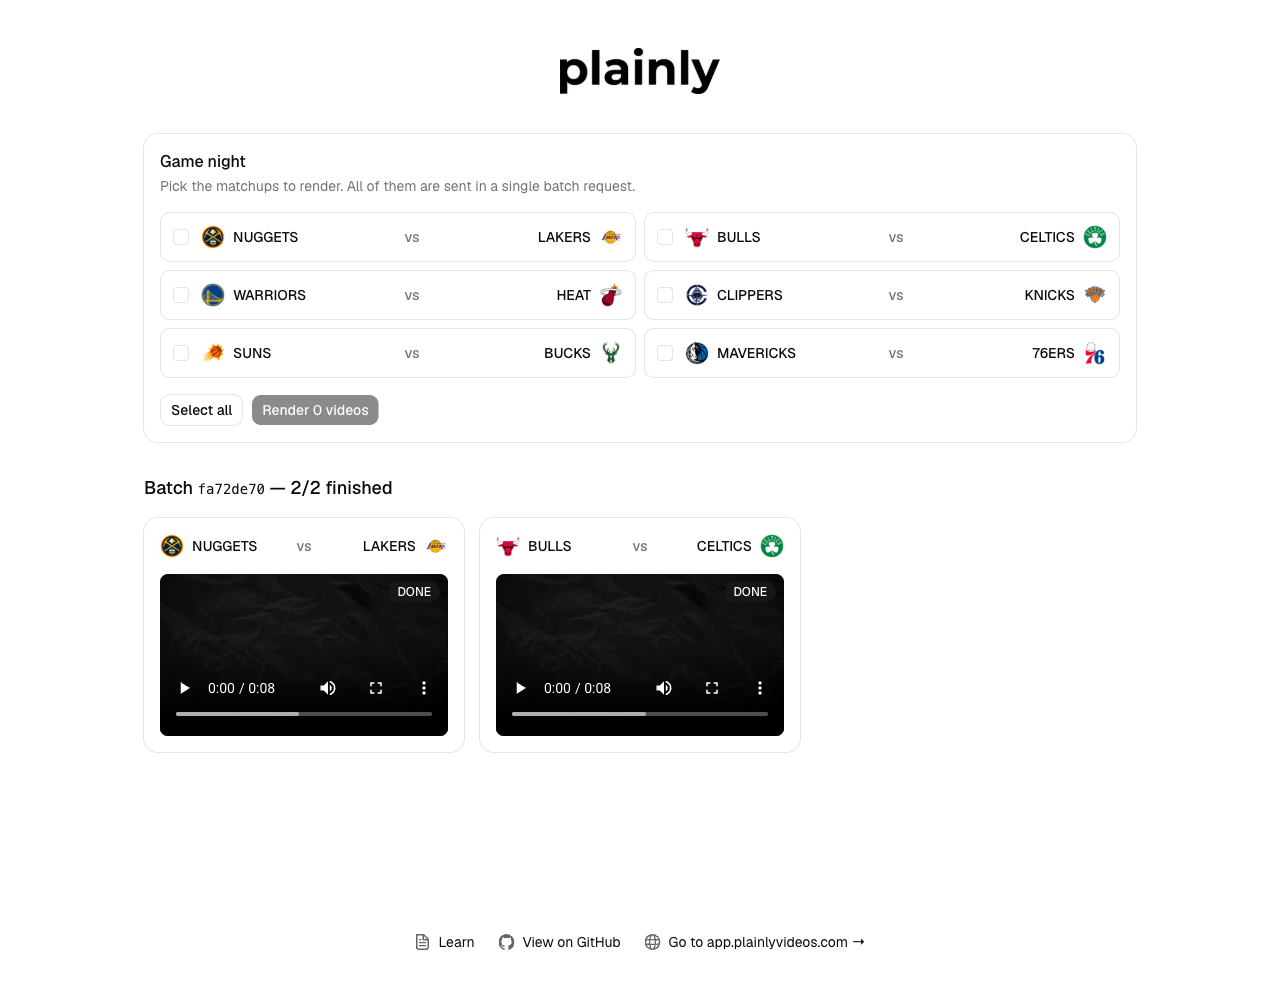
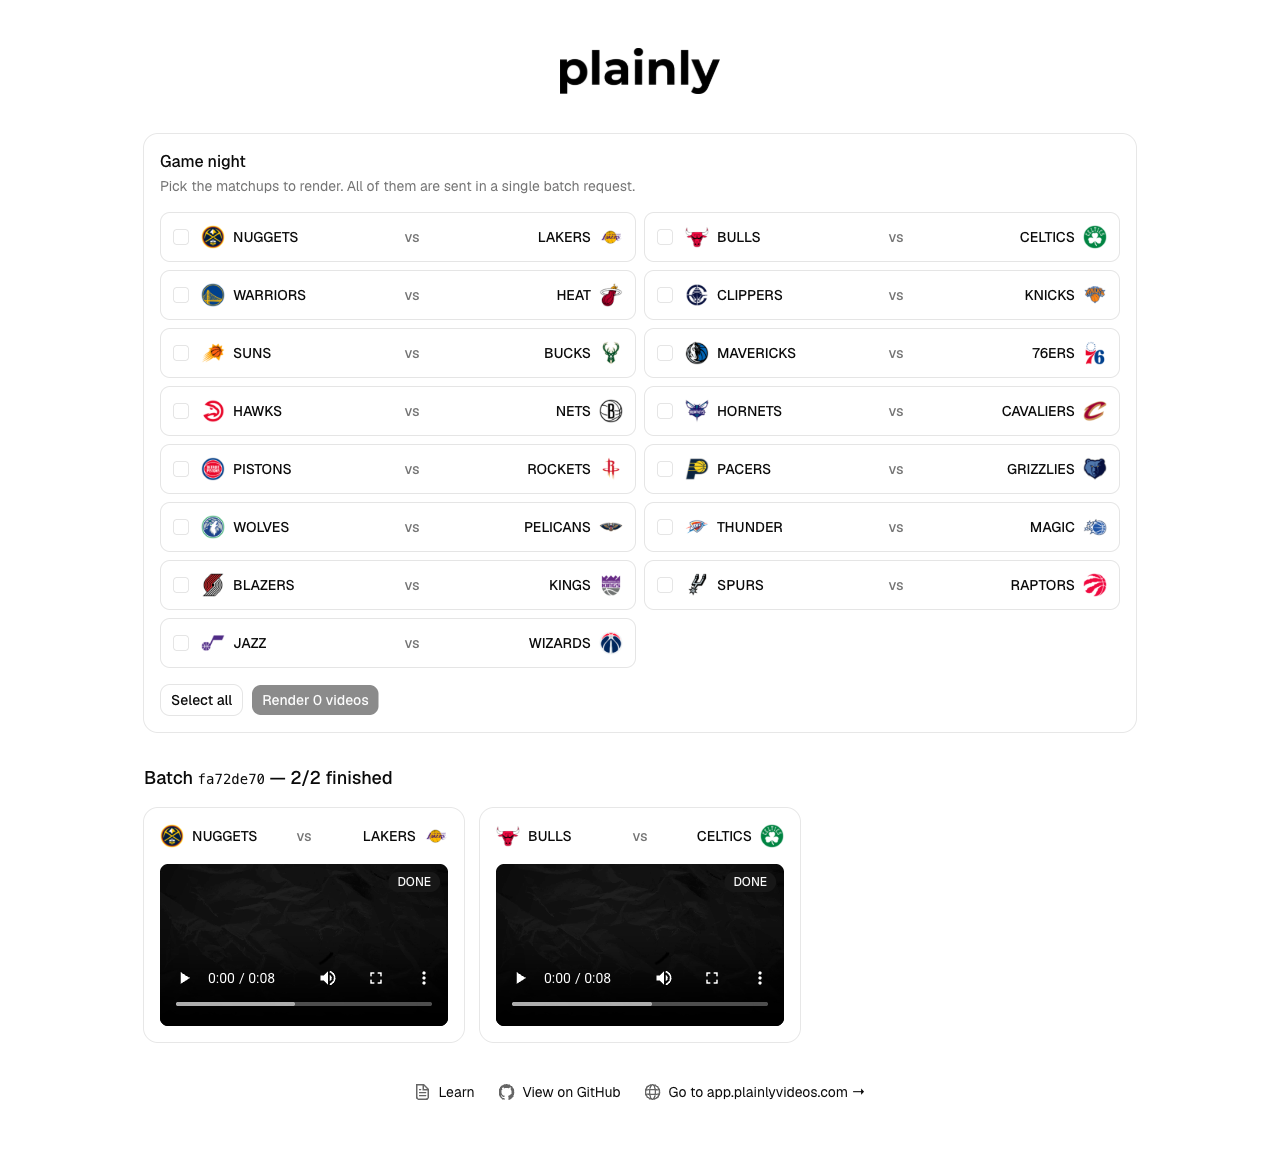
feat(batch-render): full game night with all 30 NBA teams
15 matchups, every team plays once.

diff --git a/plainly-batch-render/src/fixtures.ts b/plainly-batch-render/src/fixtures.ts
@@ -6,21 +6,39 @@ const logo = (abbr: string) =>
   `https://a.espncdn.com/i/teamlogos/nba/500/${abbr}.png`;
 
 const teams = {
-  nuggets: { name: "NUGGETS", logo: logo("den") },
-  lakers: { name: "LAKERS", logo: logo("lal") },
-  bulls: { name: "BULLS", logo: logo("chi") },
+  hawks: { name: "HAWKS", logo: logo("atl") },
   celtics: { name: "CELTICS", logo: logo("bos") },
-  warriors: { name: "WARRIORS", logo: logo("gs") },
-  heat: { name: "HEAT", logo: logo("mia") },
-  clippers: { name: "CLIPPERS", logo: logo("lac") },
-  knicks: { name: "KNICKS", logo: logo("ny") },
-  suns: { name: "SUNS", logo: logo("phx") },
-  bucks: { name: "BUCKS", logo: logo("mil") },
+  nets: { name: "NETS", logo: logo("bkn") },
+  hornets: { name: "HORNETS", logo: logo("cha") },
+  bulls: { name: "BULLS", logo: logo("chi") },
+  cavaliers: { name: "CAVALIERS", logo: logo("cle") },
   mavericks: { name: "MAVERICKS", logo: logo("dal") },
+  nuggets: { name: "NUGGETS", logo: logo("den") },
+  pistons: { name: "PISTONS", logo: logo("det") },
+  warriors: { name: "WARRIORS", logo: logo("gs") },
+  rockets: { name: "ROCKETS", logo: logo("hou") },
+  pacers: { name: "PACERS", logo: logo("ind") },
+  clippers: { name: "CLIPPERS", logo: logo("lac") },
+  lakers: { name: "LAKERS", logo: logo("lal") },
+  grizzlies: { name: "GRIZZLIES", logo: logo("mem") },
+  heat: { name: "HEAT", logo: logo("mia") },
+  bucks: { name: "BUCKS", logo: logo("mil") },
+  wolves: { name: "WOLVES", logo: logo("min") },
+  pelicans: { name: "PELICANS", logo: logo("no") },
+  knicks: { name: "KNICKS", logo: logo("ny") },
+  thunder: { name: "THUNDER", logo: logo("okc") },
+  magic: { name: "MAGIC", logo: logo("orl") },
   sixers: { name: "76ERS", logo: logo("phi") },
+  suns: { name: "SUNS", logo: logo("phx") },
+  blazers: { name: "BLAZERS", logo: logo("por") },
+  kings: { name: "KINGS", logo: logo("sac") },
+  spurs: { name: "SPURS", logo: logo("sa") },
+  raptors: { name: "RAPTORS", logo: logo("tor") },
+  jazz: { name: "JAZZ", logo: logo("utah") },
+  wizards: { name: "WIZARDS", logo: logo("wsh") },
 } satisfies Record<string, Team>;
 
-// Tonight's games, each one becomes a separate render in the batch
+// Tonight's games: all 30 teams play, each game becomes a separate render in the batch
 export const fixtures: Fixture[] = [
   { id: "nuggets-lakers", home: teams.nuggets, away: teams.lakers },
   { id: "bulls-celtics", home: teams.bulls, away: teams.celtics },
@@ -28,4 +46,13 @@ export const fixtures: Fixture[] = [
   { id: "clippers-knicks", home: teams.clippers, away: teams.knicks },
   { id: "suns-bucks", home: teams.suns, away: teams.bucks },
   { id: "mavericks-76ers", home: teams.mavericks, away: teams.sixers },
+  { id: "hawks-nets", home: teams.hawks, away: teams.nets },
+  { id: "hornets-cavaliers", home: teams.hornets, away: teams.cavaliers },
+  { id: "pistons-rockets", home: teams.pistons, away: teams.rockets },
+  { id: "pacers-grizzlies", home: teams.pacers, away: teams.grizzlies },
+  { id: "wolves-pelicans", home: teams.wolves, away: teams.pelicans },
+  { id: "thunder-magic", home: teams.thunder, away: teams.magic },
+  { id: "blazers-kings", home: teams.blazers, away: teams.kings },
+  { id: "spurs-raptors", home: teams.spurs, away: teams.raptors },
+  { id: "jazz-wizards", home: teams.jazz, away: teams.wizards },
 ];
